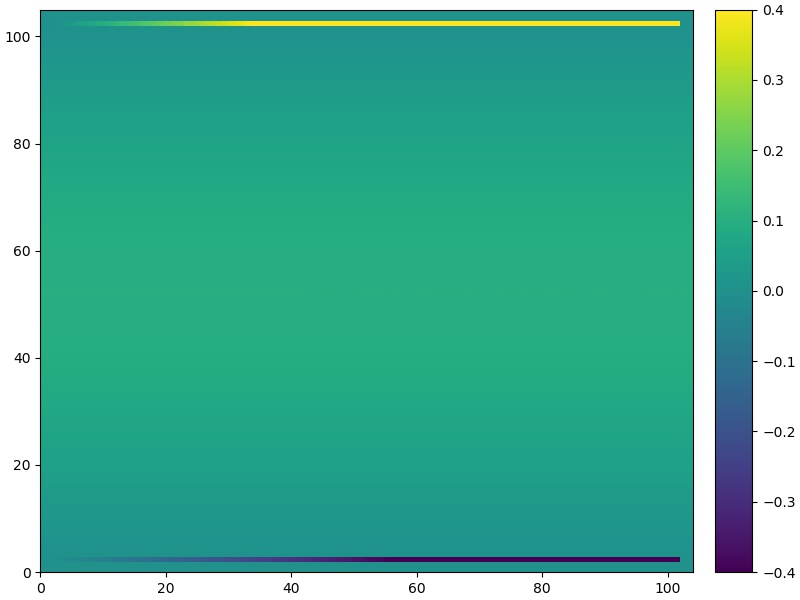
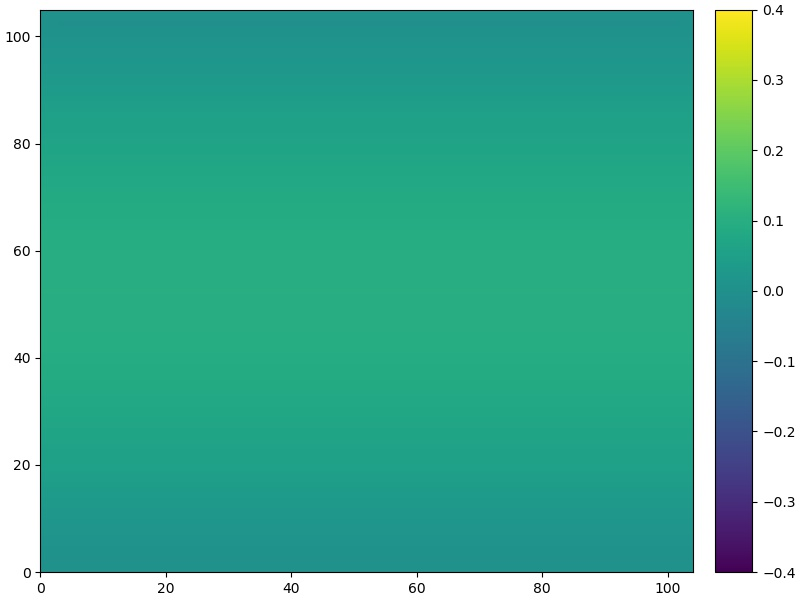
Tried gradient decent with own loss_grad

Changed region(s): [[0.1562, 0.9, 0.8438, 0.96], [0.125, 0.03, 0.8438, 0.06]]

diff --git a/custom_apps/tf_cuda_gradients.py b/custom_apps/tf_cuda_gradients.py
@@ -105,7 +105,6 @@ class CUDAFlow(App):
 
 
     def _do_the_machine_learning_stuff(self, density, velocity, dt, dim):
-        dt = 100
         density_tensor = tf.Variable(density.data)
         density_tensor_padded = tf.Variable(density.padded(2).data)
         velocity_v_field, velocity_u_field = velocity.data
@@ -118,7 +117,7 @@ class CUDAFlow(App):
         y = rho_adv - target
         optimizer = tf.train.GradientDescentOptimizer(0.1)
         print("(i) Created optimizer: ", optimizer)
-        train = optimizer.minimize(y)
+        train = optimizer.minimize(y, grad_loss=y)
         print("Got training results:\n ", train)
         sess = tf.Session()
         sess.run(tf.global_variables_initializer())
